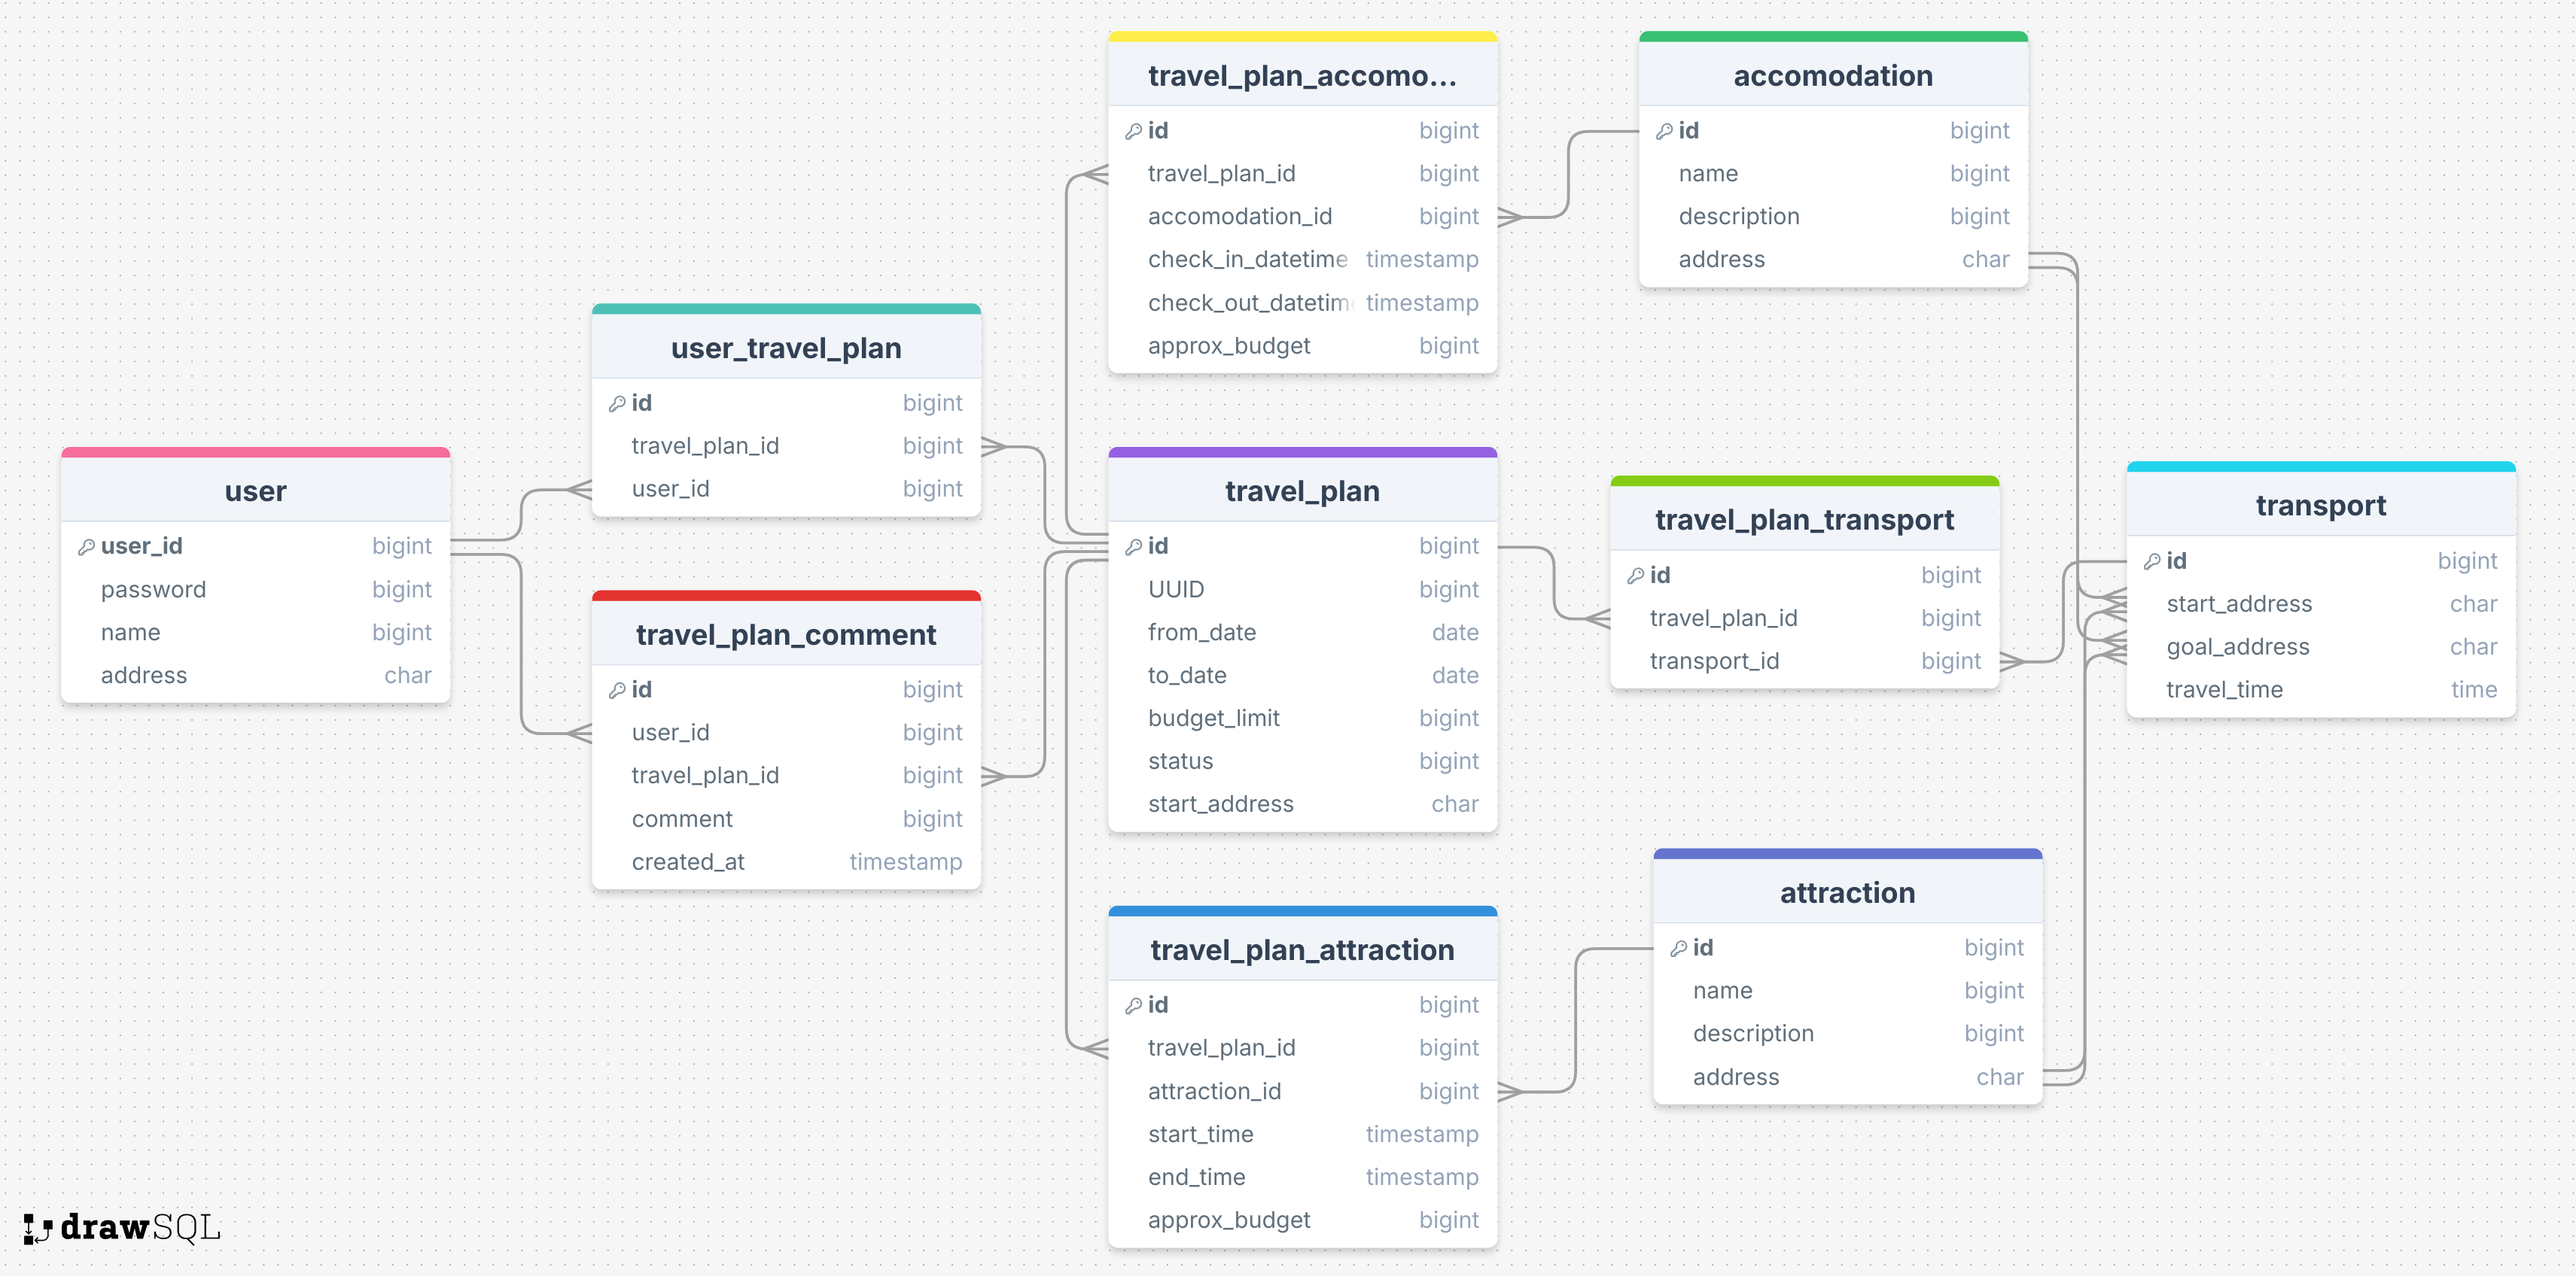
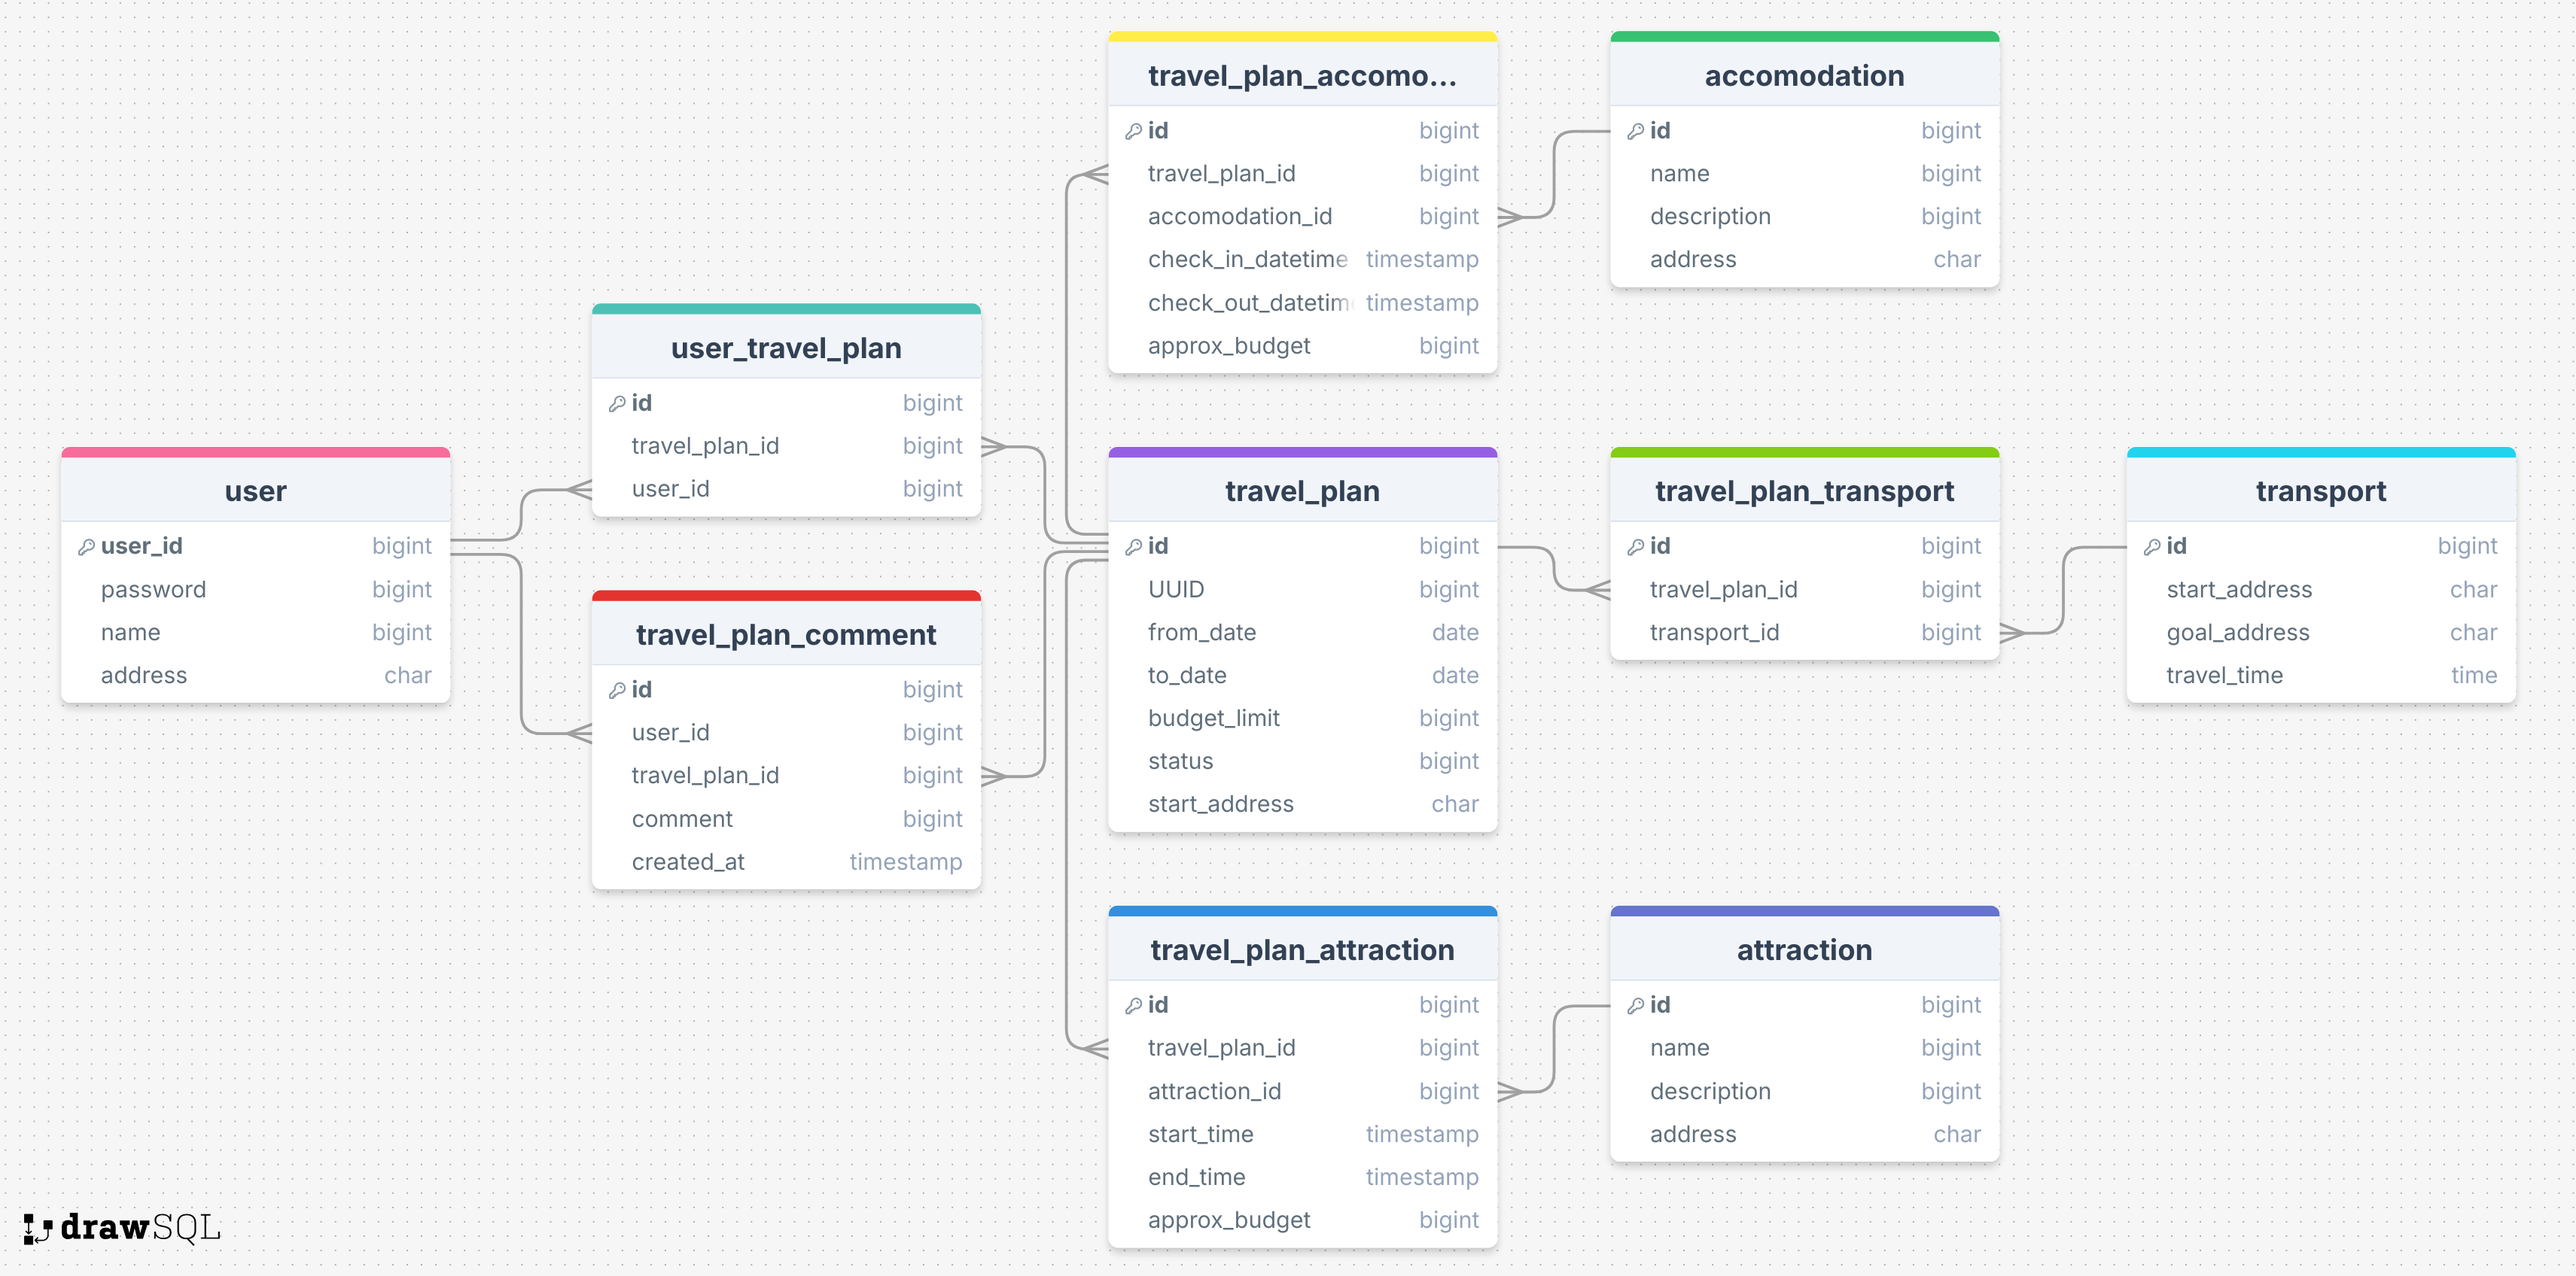
20250618_중간저장

diff --git a/KDT_class/Day06_Array/src/Quiz02.java b/KDT_class/Day06_Array/src/Quiz02.java
@@ -1,0 +1,31 @@
+import java.util.Scanner;
+
+public class Quiz02 {
+    public static void main(String[] args) {
+        Scanner sc = new Scanner(System.in);
+
+        int students = 3;
+
+        String[] name = new String[students];
+        int[] kor = new int[students];
+        int[] eng = new int[students];
+
+        for (int i = 0; i < students; i++) {
+            System.out.print((i + 1) + "번째 학생 이름 : ");
+            name[i] = sc.nextLine();
+            System.out.print(name[i] + "학생 국어 : ");
+            kor[i] = Integer.parseInt(sc.nextLine());
+            System.out.print(name[i] + "학생 영어 : ");
+            eng[i] = Integer.parseInt(sc.nextLine());
+        }
+
+        System.out.println("이름  국어  영어  합계  평균");
+        for (int i = 0; i < students; i++) {
+            System.out.print(name[i] + "  ");
+            System.out.print(kor[i] + "   ");
+            System.out.print(eng[i] + "   ");
+            System.out.print((kor[i] + eng[i]) + "  ");
+            System.out.println((double) (kor[i] + eng[i]) / 2);
+        }
+    }
+}

diff --git a/trivista/trivista_backend/src/main/java/com/trivista_backend/entity/TravelPlanComment.java b/trivista/trivista_backend/src/main/java/com/trivista_backend/entity/TravelPlanComment.java
@@ -22,8 +22,8 @@ public class TravelPlanComment {
     private UserEntity user;
 
     @ManyToOne(fetch = FetchType.EAGER)
-    @JoinColumn(name = "user_travel_plan_id")
-    private ;
+    @JoinColumn(name = "travel_plan_id")
+    private TravelPlanEntity travel_plan;
 
     @Column
     private String comment;

diff --git a/trivista/trivista_backend/src/main/java/com/trivista_backend/entity/AccomodationEntity.java b/trivista/trivista_backend/src/main/java/com/trivista_backend/entity/AccomodationEntity.java
@@ -29,4 +29,7 @@ public class AccomodationEntity {
 
     @OneToMany(mappedBy = "accomodation")
     private List<TravelPlanAccomodationEntity> travel_plan_accomodation = new ArrayList<>();
+
+    @OneToMany(mappedBy = "accomodation")
+    private List<TransportEntity> transport = new ArrayList<>();
 }
